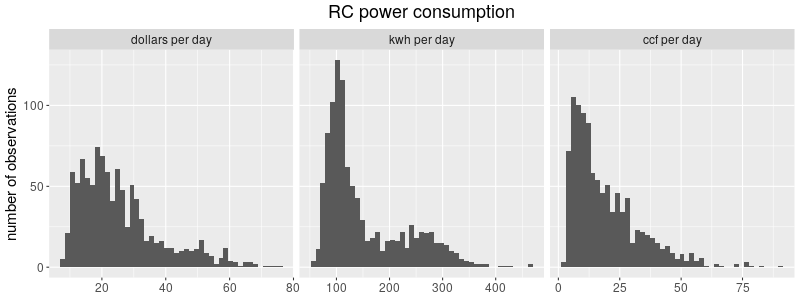
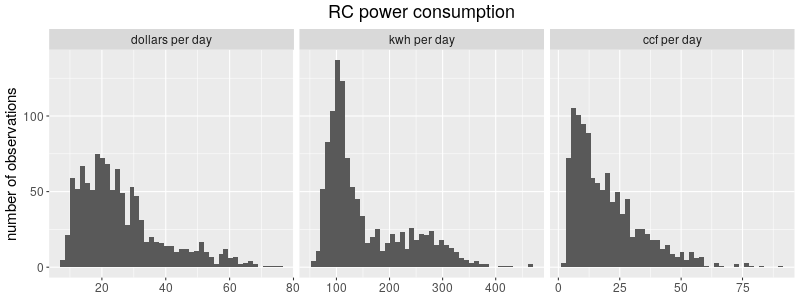
auto commit

diff --git a/index.html b/index.html
@@ -3,7 +3,7 @@
 "http://www.w3.org/TR/xhtml1/DTD/xhtml1-strict.dtd">
 <html xmlns="http://www.w3.org/1999/xhtml" lang="en" xml:lang="en">
 <head>
-<!-- 2019-11-15 Fri 11:15 -->
+<!-- 2020-03-03 Tue 07:27 -->
 <meta http-equiv="Content-Type" content="text/html;charset=utf-8" />
 <meta name="viewport" content="width=device-width, initial-scale=1" />
 <title>Chapin Mill Energy</title>
@@ -252,13 +252,13 @@ for the JavaScript code in this tag.
 <body>
 <div id="content">
 <h1 class="title">Chapin Mill Energy</h1>
-<div id="outline-container-org87c308a" class="outline-2">
-<h2 id="org87c308a">Energy Comparisons</h2>
-<div class="outline-text-2" id="text-org87c308a">
+<div id="outline-container-orgb2a4b9e" class="outline-2">
+<h2 id="orgb2a4b9e">Energy Comparisons</h2>
+<div class="outline-text-2" id="text-orgb2a4b9e">
 </div>
-<div id="outline-container-org3dc6d37" class="outline-3">
-<h3 id="org3dc6d37">Energy Consumption and Weather</h3>
-<div class="outline-text-3" id="text-org3dc6d37">
+<div id="outline-container-orgf2884fb" class="outline-3">
+<h3 id="orgf2884fb">Energy Consumption and Weather</h3>
+<div class="outline-text-3" id="text-orgf2884fb">
 <p>
 The plot below describes outdoor air temperatures and the rate of
 retreat center energy consumption for the past few months. These
@@ -317,10 +317,10 @@ dollar cost&#x2014;over all times of the year and over all events.
 
 <p>
 To be slightly more precise, 95% of the time the observed
-electricity power consumption was less than <code>304</code>
+electricity power consumption was less than <code>310</code>
 kWh per day, gas consumption was less than
-<code>46</code> hundred cubic feet per day and the
-overall energy cost was less than <code>53</code> dollars per
+<code>48</code> hundred cubic feet per day and the
+overall energy cost was less than <code>54</code> dollars per
 day.
 </p>
 
@@ -407,9 +407,9 @@ the results would not be very interesting.
 </div>
 </div>
 
-<div id="outline-container-orgf22f49e" class="outline-3">
-<h3 id="orgf22f49e">Natural gas</h3>
-<div class="outline-text-3" id="text-orgf22f49e">
+<div id="outline-container-org9df0a53" class="outline-3">
+<h3 id="org9df0a53">Natural gas</h3>
+<div class="outline-text-3" id="text-org9df0a53">
 <p>
 For a given level of occupancy of the retreat center it would be
 natural to consider gas consumption as consisting of two parts:
@@ -522,9 +522,9 @@ predictions for times that are either idle, sesshin, SIMT or UR.)
 </div>
 </div>
 
-<div id="outline-container-org8f97531" class="outline-3">
-<h3 id="org8f97531">Electricity</h3>
-<div class="outline-text-3" id="text-org8f97531">
+<div id="outline-container-orgf30759e" class="outline-3">
+<h3 id="orgf30759e">Electricity</h3>
+<div class="outline-text-3" id="text-orgf30759e">
 <p>
 For the period under consideration electricity usage did not vary
 with outside air temperature in a significant way. The data only
@@ -599,9 +599,9 @@ dollars respectively.
 </div>
 </div>
 
-<div id="outline-container-orgd464fc8" class="outline-2">
-<h2 id="orgd464fc8">Details</h2>
-<div class="outline-text-2" id="text-orgd464fc8">
+<div id="outline-container-org417c0a7" class="outline-2">
+<h2 id="org417c0a7">Details</h2>
+<div class="outline-text-2" id="text-org417c0a7">
 <p>
 The natural gas model is
 \[
@@ -832,7 +832,7 @@ where \(y\) is electricity consumption in kWh per day and the
 </div>
 </div>
 <div id="postamble" class="status">
-<p class="date">Created: 2019-11-15 Fri 11:15</p>
+<p class="date">Created: 2020-03-03 Tue 07:27</p>
 <p class="validation"><a href="http://validator.w3.org/check?uri=referer">Validate</a></p>
 </div>
 </body>
